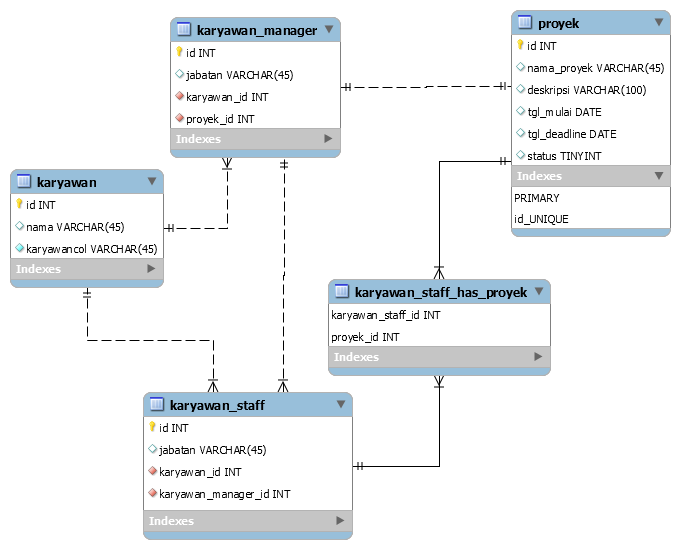
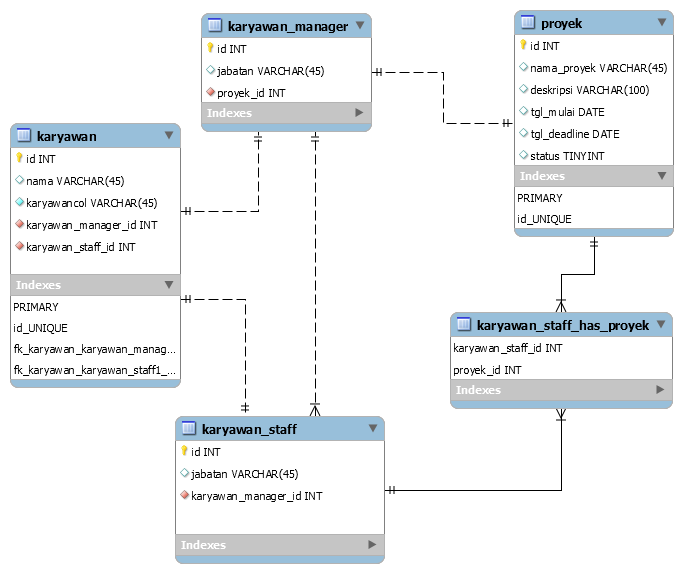
gambar ERD

diff --git a/database/migrations/2020_08_10_135749_create_karyawan_table.php b/database/migrations/2020_08_10_135749_create_karyawan_table.php
@@ -1,0 +1,38 @@
+<?php
+
+use Illuminate\Database\Migrations\Migration;
+use Illuminate\Database\Schema\Blueprint;
+use Illuminate\Support\Facades\Schema;
+
+class CreateKaryawanTable extends Migration
+{
+    /**
+     * Run the migrations.
+     *
+     * @return void
+     */
+    public function up()
+    {
+        Schema::create('karyawan', function (Blueprint $table) {
+            $table->bigIncrements('id');
+            $table->string('nama');
+
+
+            $table->unsignedBigInteger('karyawan_manager_id');
+            $table->foreign('karyawan_manager_id')->references('id')->on('karyawan_manager');
+            $table->unsignedBigInteger('karyawan_staff_id');
+            $table->foreign('karyawan_staff_id')->references('id')->on('karyawan_staff');
+            $table->timestamps();
+        });
+    }
+
+    /**
+     * Reverse the migrations.
+     *
+     * @return void
+     */
+    public function down()
+    {
+        Schema::dropIfExists('karyawan');
+    }
+}

diff --git a/database/migrations/2020_08_10_135748_create_karyawan_staff_has_proyek_table.php b/database/migrations/2020_08_10_135748_create_karyawan_staff_has_proyek_table.php
@@ -1,0 +1,36 @@
+<?php
+
+use Illuminate\Database\Migrations\Migration;
+use Illuminate\Database\Schema\Blueprint;
+use Illuminate\Support\Facades\Schema;
+
+class CreateKaryawanStaffHasProyekTable extends Migration
+{
+    /**
+     * Run the migrations.
+     *
+     * @return void
+     */
+    public function up()
+    {
+        Schema::create('karyawan_staff_has_proyek', function (Blueprint $table) {
+            $table->bigIncrements('id');
+
+            $table->unsignedBigInteger('karyawan_staff_id');
+            $table->foreign('karyawan_staff_id')->references('id')->on('karyawan_staff');
+            $table->unsignedBigInteger('proyek_id');
+            $table->foreign('proyek_id')->references('id')->on('proyek');
+            $table->timestamps();
+        });
+    }
+
+    /**
+     * Reverse the migrations.
+     *
+     * @return void
+     */
+    public function down()
+    {
+        Schema::dropIfExists('karyawan_staff_has_proyek');
+    }
+}

diff --git a/database/migrations/2020_08_10_135026_create_proyek_table.php b/database/migrations/2020_08_10_135026_create_proyek_table.php
@@ -1,0 +1,36 @@
+<?php
+
+use Illuminate\Database\Migrations\Migration;
+use Illuminate\Database\Schema\Blueprint;
+use Illuminate\Support\Facades\Schema;
+
+class CreateProyekTable extends Migration
+{
+    /**
+     * Run the migrations.
+     *
+     * @return void
+     */
+    public function up()
+    {
+        Schema::create('proyek', function (Blueprint $table) {
+            $table->bigIncrements('id');
+            $table->string('nama_proyek');
+            $table->string('deskripsi');
+            $table->date('tgl_mulai');
+            $table->date('tgl_deadline');
+            $table->boolean('status')->default(0)->change();
+            $table->timestamps();
+        });
+    }
+
+    /**
+     * Reverse the migrations.
+     *
+     * @return void
+     */
+    public function down()
+    {
+        Schema::dropIfExists('proyek');
+    }
+}

diff --git a/database/migrations/2020_08_10_135613_create_karyawan_staff_table.php b/database/migrations/2020_08_10_135613_create_karyawan_staff_table.php
@@ -1,0 +1,35 @@
+<?php
+
+use Illuminate\Database\Migrations\Migration;
+use Illuminate\Database\Schema\Blueprint;
+use Illuminate\Support\Facades\Schema;
+
+class CreateKaryawanStaffTable extends Migration
+{
+    /**
+     * Run the migrations.
+     *
+     * @return void
+     */
+    public function up()
+    {
+        Schema::create('karyawan_staff', function (Blueprint $table) {
+            $table->bigIncrements('id');
+            $table->string('jabatan');
+
+            $table->unsignedBigInteger('karyawan_manager_id');
+            $table->foreign('karyawan_manager_id')->references('id')->on('karyawan_manager');
+            $table->timestamps();
+        });
+    }
+
+    /**
+     * Reverse the migrations.
+     *
+     * @return void
+     */
+    public function down()
+    {
+        Schema::dropIfExists('karyawan_staff');
+    }
+}

diff --git a/database/migrations/2020_08_10_135516_create_karyawan_manager_table.php b/database/migrations/2020_08_10_135516_create_karyawan_manager_table.php
@@ -1,0 +1,35 @@
+<?php
+
+use Illuminate\Database\Migrations\Migration;
+use Illuminate\Database\Schema\Blueprint;
+use Illuminate\Support\Facades\Schema;
+
+class CreateKaryawanManagerTable extends Migration
+{
+    /**
+     * Run the migrations.
+     *
+     * @return void
+     */
+    public function up()
+    {
+        Schema::create('karyawan_manager', function (Blueprint $table) {
+            $table->bigIncrements('id');
+            $table->string('jabatan');
+
+            $table->unsignedBigInteger('proyek_id');
+            $table->foreign('proyek_id')->references('id')->on('proyek');
+            $table->timestamps();
+        });
+    }
+
+    /**
+     * Reverse the migrations.
+     *
+     * @return void
+     */
+    public function down()
+    {
+        Schema::dropIfExists('karyawan_manager');
+    }
+}
